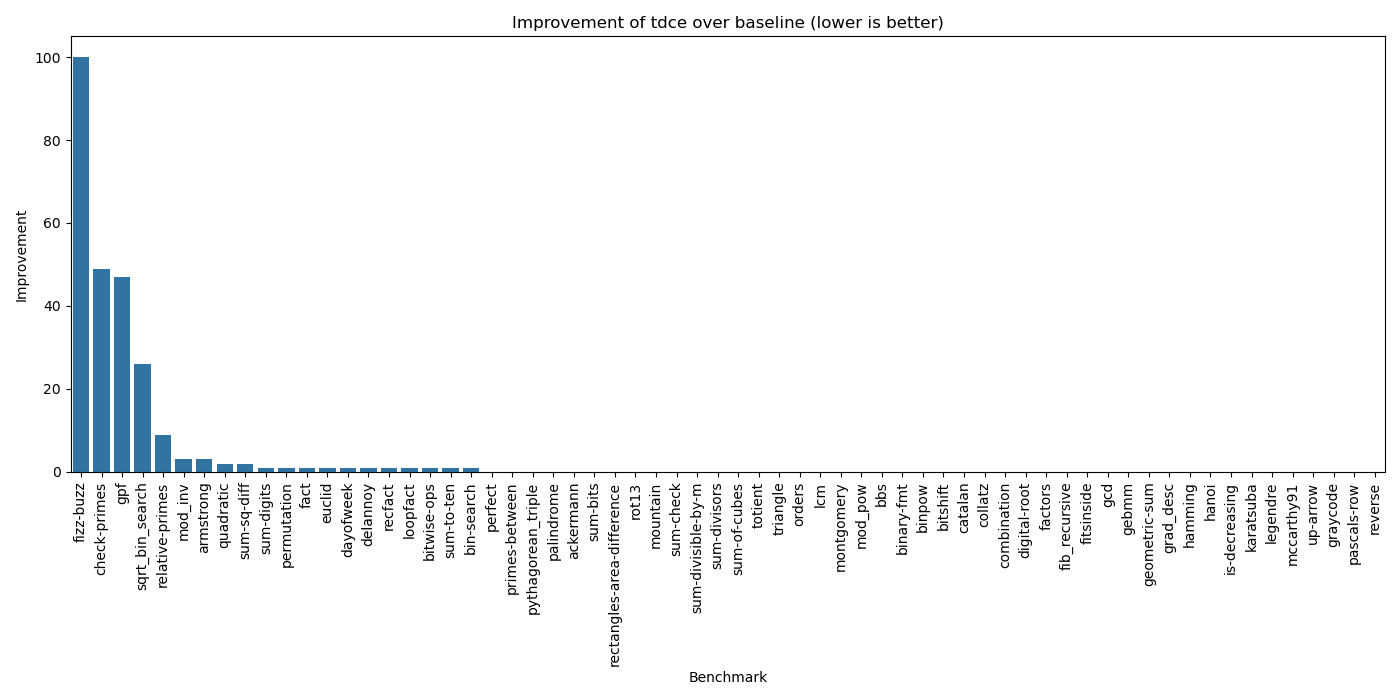
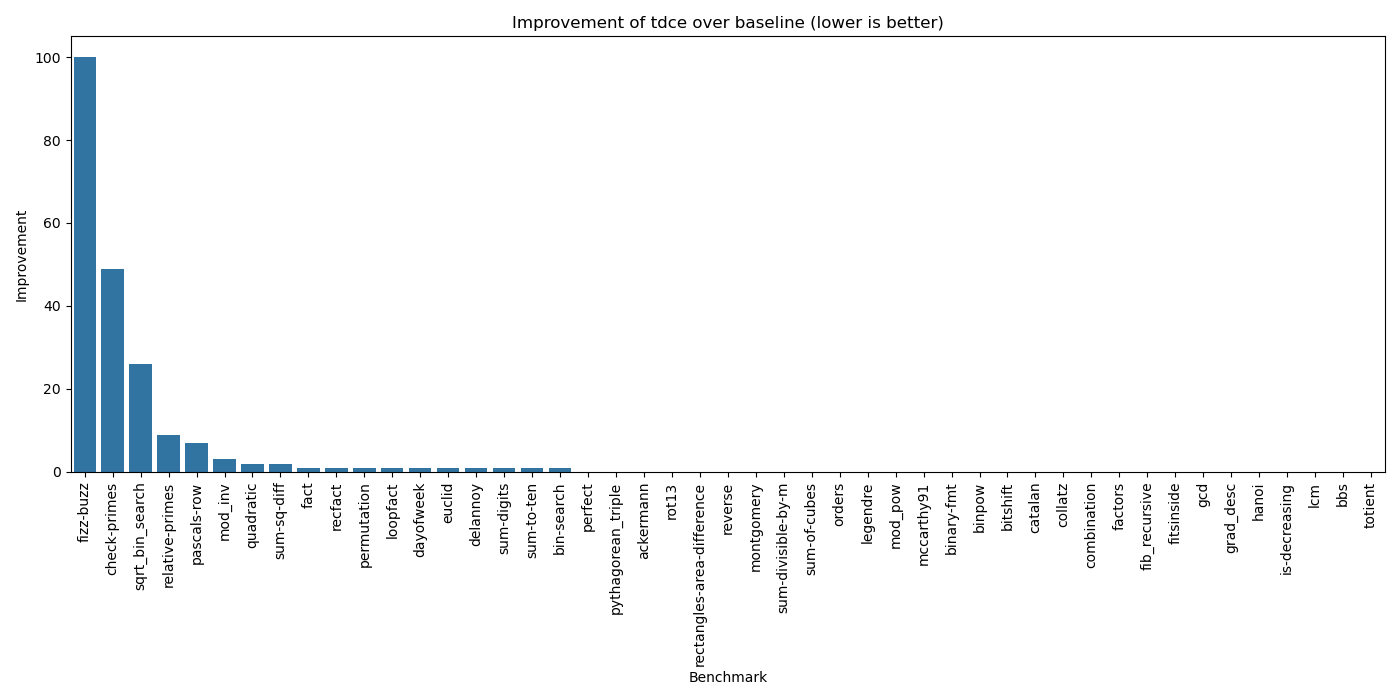
update results

Changed region(s): [[0.0307, 0.09, 0.9829, 0.93]]

diff --git a/cs6120/Task2/tdce.py b/cs6120/Task2/tdce.py
@@ -8,17 +8,16 @@ def is_pure(ins):
     return "op" in ins and "dest" in ins and ins["op"] not in EFFECT_OPS
 
 def get_used_vars(ins):
-    return ins.get("args", [])
+    vars = []
+    if "args" in ins:
+        vars.extend(ins["args"])
+    if ins.get("op") == "br" and "labels" in ins and ins.get("args"):
+        vars.append(ins["args"][0])  # condition for br
+    if "value" in ins and isinstance(ins["value"], str):
+        vars.append(ins["value"])
+    return vars
 
 def split_blocks(instrs):
-    """
-    Split instructions into basic blocks.
-    Start a block at:
-    - first instruction
-    - label
-    - targets of jmp/br
-    - instruction after jmp/br
-    """
     labels = {}
     leaders = set()
     for i, ins in enumerate(instrs):
@@ -33,7 +32,6 @@ def split_blocks(instrs):
                     leaders.add(labels[l])
             if i + 1 < len(instrs):
                 leaders.add(i + 1)
-    for i, ins in enumerate(instrs):
         if "label" in ins:
             leaders.add(i)
     leaders = sorted(leaders)
@@ -48,65 +46,71 @@ def join_blocks(blocks):
     return [ins for block in blocks for ins in block]
 
 def find_globals_used_elsewhere(blocks):
-    """
-    Determine which variables are used across blocks.
-    If a var is used in a different block than it's defined in, it's globally needed.
-    """
-    defs = {}
-    uses = {}
+    defs, uses = {}, {}
+
+    # Track uses and defs per block
     for bi, block in enumerate(blocks):
         for ins in block:
             for var in get_used_vars(ins):
                 uses.setdefault(var, set()).add(bi)
             if "dest" in ins:
                 defs.setdefault(ins["dest"], set()).add(bi)
+
     global_needed = set()
+
+    # Used in a different block than it was defined
     for var in uses:
         if var in defs:
             if not uses[var].issubset(defs[var]):
                 global_needed.add(var)
-    return global_needed.union(set(var for var in uses if var not in defs))
+
+    # Defined in multiple blocks
+    for var, def_blocks in defs.items():
+        if len(def_blocks) > 1:
+            global_needed.add(var)
+
+    # Used but never defined (e.g. function parameters)
+    for var in uses:
+        if var not in defs:
+            global_needed.add(var)
+
+    # Used in side-effectful or control-flow ops
+    for block in blocks:
+        for ins in block:
+            if ins.get("op") in EFFECT_OPS:
+                global_needed.update(get_used_vars(ins))
+
+    return global_needed
 
 def dce_block(block, global_uses):
-    live = set()
+    live, seen_defs = set(), set()
     new_block = []
-    seen_defs = set()
-
     for ins in reversed(block):
-        if "comment" in ins:
+        if "label" in ins or "comment" in ins:
             new_block.append(ins)
             continue
 
-        if "label" in ins:
+        dest = ins.get("dest")
+        used_vars = set(get_used_vars(ins))
+
+        if not is_pure(ins):  # side-effectful op
             new_block.append(ins)
+            live.update(used_vars)
             continue
 
-        if "dest" in ins and "type" in ins and is_pure(ins):
-            dest = ins["dest"]
-
-            # If it's not used in this block AND not used globally → remove
-            if dest not in live and dest not in global_uses:
-                continue
-
-            # If it's redefined later in this block before being used → remove
-            if dest not in live and dest in seen_defs:
-                continue
-
-            seen_defs.add(dest)
+        if dest in global_uses or dest in live:
+            new_block.append(ins)
+            live.update(used_vars)
             live.discard(dest)
+        elif dest in seen_defs:
             new_block.append(ins)
+            live.update(used_vars)
+            live.discard(dest)
         else:
-            new_block.append(ins)
-
-        for var in get_used_vars(ins):
-            live.add(var)
+            seen_defs.add(dest)
 
     new_block.reverse()
     return new_block
-
-
-
-
 
 def trivial_dce_func(func):
     changed = True

diff --git a/cs6120/Task2/analysis.py b/cs6120/Task2/analysis.py
@@ -3,7 +3,7 @@ import matplotlib.pyplot as plt
 import seaborn as sns
 
 # Load CSV
-file_path = "./lvn-results.csv"
+file_path = "./tdce-results.csv"
 df = pd.read_csv(file_path)
 
 # Keep track of incorrect/missing/timeout
@@ -18,7 +18,7 @@ df_clean["result"] = df_clean["result"].astype(int)
 pivot_df = df_clean.pivot(index="benchmark", columns="run", values="result").reset_index()
 
 # Compute improvements
-pivot_df["improvement"] = pivot_df["baseline"] - pivot_df["LVN"]
+pivot_df["improvement"] = pivot_df["baseline"] - pivot_df["tdce"]
 pivot_df["percent_improvement"] = 100 * pivot_df["improvement"] / pivot_df["baseline"]
 
 # Compute stats
@@ -36,16 +36,16 @@ summary = {
     "Improved": improved,
     "Unchanged": unchanged,
     "Regressed": regressed,
-    "Incorrect Results (LVN)": incorrect_counts.get("incorrect", 0),
-    "Missing Results (LVN)": incorrect_counts.get("missing", 0),
-    "Timeout Results (LVN)": incorrect_counts.get("timeout", 0),
+    "Incorrect Results (tdce)": incorrect_counts.get("incorrect", 0),
+    "Missing Results (tdce)": incorrect_counts.get("missing", 0),
+    "Timeout Results (tdce)": incorrect_counts.get("timeout", 0),
     "Total Absolute Improvement": total_improvement,
     "Average Improvement": round(avg_improvement, 2),
     "Mean Percent Improvement": round(mean_percent_improvement, 2),
 }
 
 # Save analysis output
-analysis_path = "./LVN_performance_analysis.csv"
+analysis_path = "./tdce_performance_analysis.csv"
 pivot_df.to_csv(analysis_path, index=False)
 
 # Plot improvements
@@ -53,12 +53,12 @@ plt.figure(figsize=(14, 7))
 sorted_df = pivot_df.sort_values("improvement", ascending=False)
 sns.barplot(x="benchmark", y="improvement", data=sorted_df)
 plt.xticks(rotation=90)
-plt.title("Improvement of LVN over baseline (lower is better)")
+plt.title("Improvement of tdce over baseline (lower is better)")
 plt.xlabel("Benchmark")
 plt.ylabel("Improvement")
 plt.tight_layout()
 
-plot_path = "./LVN_improvements_plot.png"
+plot_path = "./tdce_improvements_plot.png"
 plt.savefig(plot_path)
 print("Analysis complete. Summary:", summary)
 
